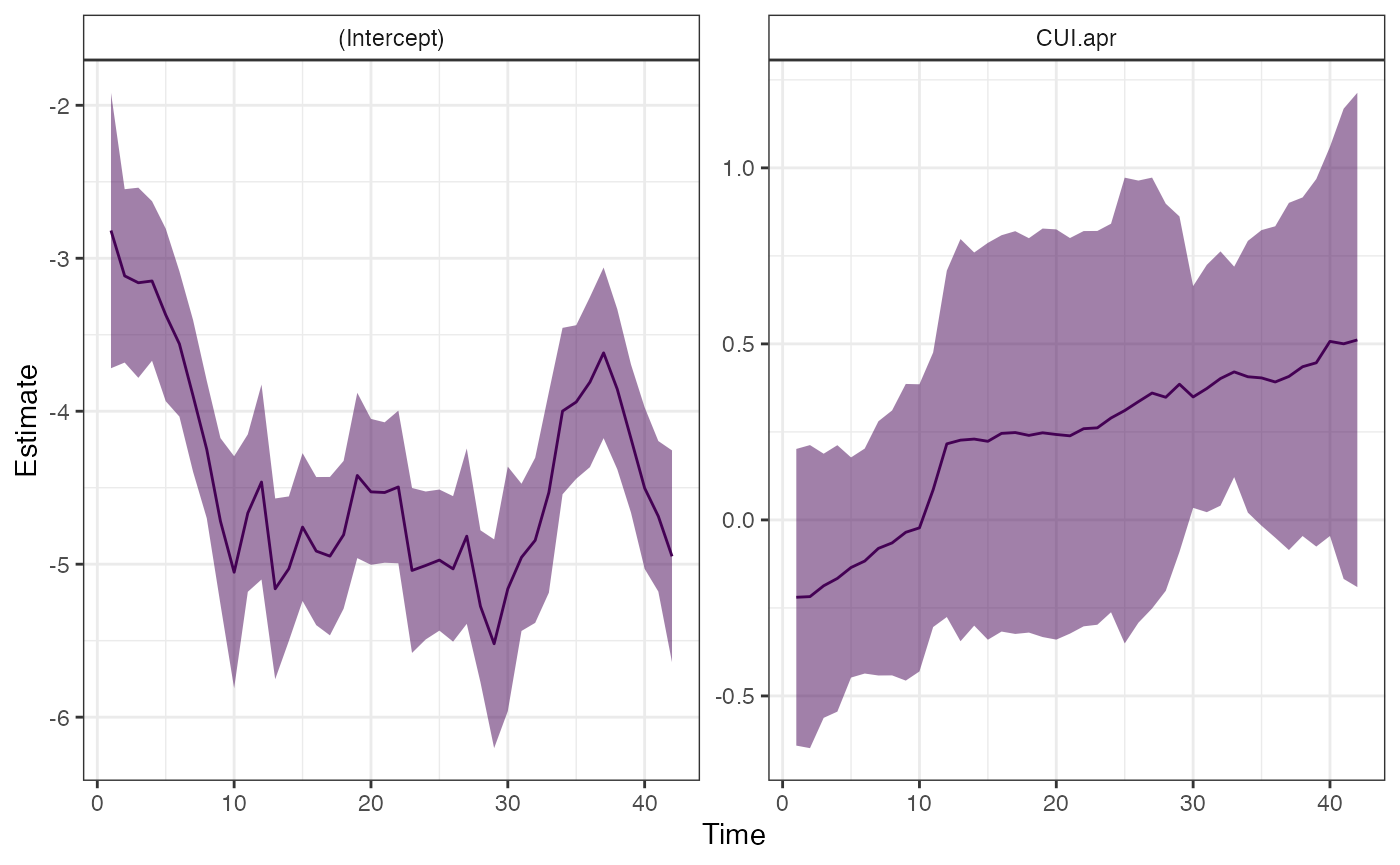
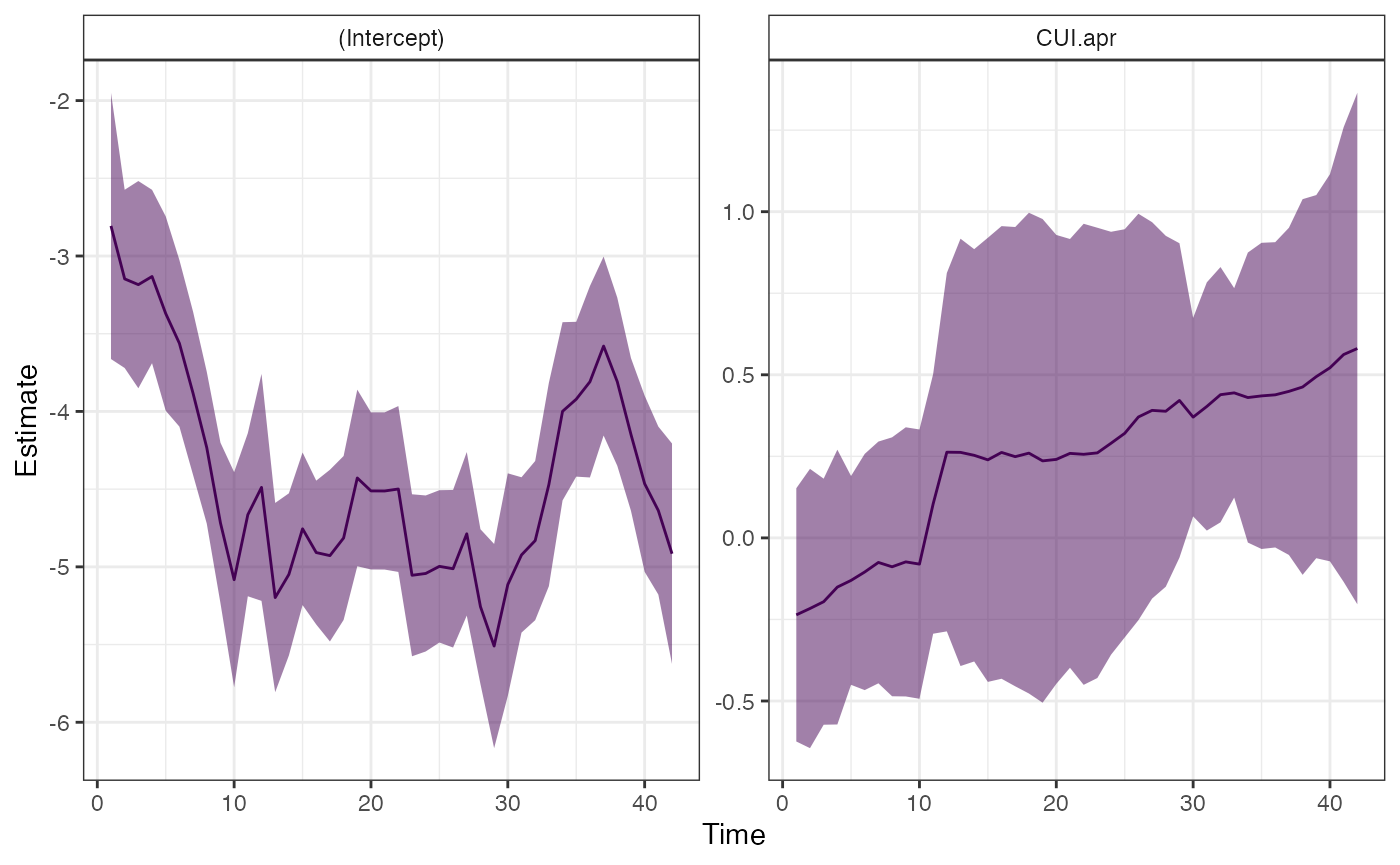
bug

diff --git a/docs/articles/a01_overview.html b/docs/articles/a01_overview.html
@@ -138,8 +138,8 @@
 <pre><code><span class="co">## </span>
 <span class="co">## SAMPLING FOR MODEL 'dlm' NOW (CHAIN 1).</span>
 <span class="co">## Chain 1: </span>
-<span class="co">## Chain 1: Gradient evaluation took 0.000278 seconds</span>
-<span class="co">## Chain 1: 1000 transitions using 10 leapfrog steps per transition would take 2.78 seconds.</span>
+<span class="co">## Chain 1: Gradient evaluation took 0.000224 seconds</span>
+<span class="co">## Chain 1: 1000 transitions using 10 leapfrog steps per transition would take 2.24 seconds.</span>
 <span class="co">## Chain 1: Adjust your expectations accordingly!</span>
 <span class="co">## Chain 1: </span>
 <span class="co">## Chain 1: </span>
@@ -156,19 +156,13 @@
 <span class="co">## Chain 1: Iteration: 900 / 1000 [ 90%]  (Sampling)</span>
 <span class="co">## Chain 1: Iteration: 1000 / 1000 [100%]  (Sampling)</span>
 <span class="co">## Chain 1: </span>
-<span class="co">## Chain 1:  Elapsed Time: 11.0205 seconds (Warm-up)</span>
-<span class="co">## Chain 1:                7.67908 seconds (Sampling)</span>
-<span class="co">## Chain 1:                18.6996 seconds (Total)</span>
+<span class="co">## Chain 1:  Elapsed Time: 11.8242 seconds (Warm-up)</span>
+<span class="co">## Chain 1:                10.6537 seconds (Sampling)</span>
+<span class="co">## Chain 1:                22.4778 seconds (Total)</span>
 <span class="co">## Chain 1:</span></code></pre>
-<pre><code><span class="co">## Warning: There were 29 divergent transitions after warmup. See</span>
-<span class="co">## https://mc-stan.org/misc/warnings.html#divergent-transitions-after-warmup</span>
-<span class="co">## to find out why this is a problem and how to eliminate them.</span></code></pre>
 <pre><code><span class="co">## Warning: There were 1 chains where the estimated Bayesian Fraction of Missing Information was low. See</span>
 <span class="co">## https://mc-stan.org/misc/warnings.html#bfmi-low</span></code></pre>
 <pre><code><span class="co">## Warning: Examine the pairs() plot to diagnose sampling problems</span></code></pre>
-<pre><code><span class="co">## Warning: The largest R-hat is NA, indicating chains have not mixed.</span>
-<span class="co">## Running the chains for more iterations may help. See</span>
-<span class="co">## https://mc-stan.org/misc/warnings.html#r-hat</span></code></pre>
 <pre><code><span class="co">## Warning: Bulk Effective Samples Size (ESS) is too low, indicating posterior means and medians may be unreliable.</span>
 <span class="co">## Running the chains for more iterations may help. See</span>
 <span class="co">## https://mc-stan.org/misc/warnings.html#bulk-ess</span></code></pre>
@@ -179,7 +173,7 @@
 <ul>
 <li>Did you get any warnings about divergent transitions after warmup? If so, try increasing the iterations / burn-in period, and number of chains. It’s also worth increasing the value of <code>adapt_delta</code>. (this will slow the sampling down a little). If you’re still getting these warnings, the model may be mis-specified or data not informative.</li>
 </ul>
-<div class="sourceCode" id="cb17"><pre class="downlit sourceCode r">
+<div class="sourceCode" id="cb15"><pre class="downlit sourceCode r">
 <code class="sourceCode R"><span class="va">fit</span> <span class="op">&lt;-</span> <span class="fu"><a href="../reference/fit_dlm.html">fit_dlm</a></span><span class="op">(</span>time_varying <span class="op">=</span> <span class="va">logit.s</span> <span class="op">~</span> <span class="va">CUI.apr</span>,
         data <span class="op">=</span> <span class="va">SalmonSurvCUI</span>,
         chains<span class="op">=</span><span class="fl">1</span>,
@@ -188,32 +182,32 @@
 <ul>
 <li>Did you get a warning about the maximum tree depth? If so, you can increase the maximum tree (<code>max_treedepth</code>) depth with the following</li>
 </ul>
-<div class="sourceCode" id="cb18"><pre class="downlit sourceCode r">
+<div class="sourceCode" id="cb16"><pre class="downlit sourceCode r">
 <code class="sourceCode R"><span class="va">fit</span> <span class="op">&lt;-</span> <span class="fu"><a href="../reference/fit_dlm.html">fit_dlm</a></span><span class="op">(</span>time_varying <span class="op">=</span> <span class="va">logit.s</span> <span class="op">~</span> <span class="va">CUI.apr</span>,
         data <span class="op">=</span> <span class="va">SalmonSurvCUI</span>,
         chains<span class="op">=</span><span class="fl">1</span>,
         iter<span class="op">=</span><span class="fl">1000</span>,
         control <span class="op">=</span> <span class="fu"><a href="https://rdrr.io/r/base/list.html" class="external-link">list</a></span><span class="op">(</span>max_treedepth<span class="op">=</span><span class="fl">15</span><span class="op">)</span><span class="op">)</span></code></pre></div>
 <p>We can extract tidied versions of any of the parameters with</p>
-<div class="sourceCode" id="cb19"><pre class="downlit sourceCode r">
+<div class="sourceCode" id="cb17"><pre class="downlit sourceCode r">
 <code class="sourceCode R"><span class="fu">broom.mixed</span><span class="fu">::</span><span class="fu"><a href="https://generics.r-lib.org/reference/tidy.html" class="external-link">tidy</a></span><span class="op">(</span><span class="va">fit</span><span class="op">$</span><span class="va">fit</span><span class="op">)</span></code></pre></div>
 <pre><code><span class="co">## <span style="color: #949494;"># A tibble: 182 × 3</span></span>
 <span class="co">##    term    estimate std.error</span>
 <span class="co">##    <span style="color: #949494; font-style: italic;">&lt;chr&gt;</span>      <span style="color: #949494; font-style: italic;">&lt;dbl&gt;</span>     <span style="color: #949494; font-style: italic;">&lt;dbl&gt;</span></span>
-<span class="co">## <span style="color: #BCBCBC;"> 1</span> eta[1]     -<span style="color: #BB0000;">3.36</span>     0.332</span>
-<span class="co">## <span style="color: #BCBCBC;"> 2</span> eta[2]     -<span style="color: #BB0000;">3.12</span>     0.286</span>
-<span class="co">## <span style="color: #BCBCBC;"> 3</span> eta[3]     -<span style="color: #BB0000;">3.53</span>     0.275</span>
-<span class="co">## <span style="color: #BCBCBC;"> 4</span> eta[4]     -<span style="color: #BB0000;">3.19</span>     0.249</span>
-<span class="co">## <span style="color: #BCBCBC;"> 5</span> eta[5]     -<span style="color: #BB0000;">3.62</span>     0.287</span>
-<span class="co">## <span style="color: #BCBCBC;"> 6</span> eta[6]     -<span style="color: #BB0000;">3.41</span>     0.270</span>
-<span class="co">## <span style="color: #BCBCBC;"> 7</span> eta[7]     -<span style="color: #BB0000;">3.97</span>     0.259</span>
-<span class="co">## <span style="color: #BCBCBC;"> 8</span> eta[8]     -<span style="color: #BB0000;">4.25</span>     0.232</span>
-<span class="co">## <span style="color: #BCBCBC;"> 9</span> eta[9]     -<span style="color: #BB0000;">4.70</span>     0.279</span>
-<span class="co">## <span style="color: #BCBCBC;">10</span> eta[10]    -<span style="color: #BB0000;">5.14</span>     0.389</span>
+<span class="co">## <span style="color: #BCBCBC;"> 1</span> eta[1]     -<span style="color: #BB0000;">3.38</span>     0.305</span>
+<span class="co">## <span style="color: #BCBCBC;"> 2</span> eta[2]     -<span style="color: #BB0000;">3.15</span>     0.290</span>
+<span class="co">## <span style="color: #BCBCBC;"> 3</span> eta[3]     -<span style="color: #BB0000;">3.53</span>     0.291</span>
+<span class="co">## <span style="color: #BCBCBC;"> 4</span> eta[4]     -<span style="color: #BB0000;">3.17</span>     0.268</span>
+<span class="co">## <span style="color: #BCBCBC;"> 5</span> eta[5]     -<span style="color: #BB0000;">3.62</span>     0.293</span>
+<span class="co">## <span style="color: #BCBCBC;"> 6</span> eta[6]     -<span style="color: #BB0000;">3.42</span>     0.292</span>
+<span class="co">## <span style="color: #BCBCBC;"> 7</span> eta[7]     -<span style="color: #BB0000;">3.96</span>     0.259</span>
+<span class="co">## <span style="color: #BCBCBC;"> 8</span> eta[8]     -<span style="color: #BB0000;">4.21</span>     0.254</span>
+<span class="co">## <span style="color: #BCBCBC;"> 9</span> eta[9]     -<span style="color: #BB0000;">4.69</span>     0.266</span>
+<span class="co">## <span style="color: #BCBCBC;">10</span> eta[10]    -<span style="color: #BB0000;">5.25</span>     0.378</span>
 <span class="co">## <span style="color: #949494;"># … with 172 more rows</span></span>
 <span class="co">## <span style="color: #949494;"># ℹ Use `print(n = ...)` to see more rows</span></span></code></pre>
 <p>We also have a helper function for extracting and visualizing trends for time varying parameters.</p>
-<div class="sourceCode" id="cb21"><pre class="downlit sourceCode r">
+<div class="sourceCode" id="cb19"><pre class="downlit sourceCode r">
 <code class="sourceCode R"><span class="fu"><a href="../reference/dlm_trends.html">dlm_trends</a></span><span class="op">(</span><span class="va">fit</span><span class="op">)</span></code></pre></div>
 <pre><code><span class="co">## $plot</span></code></pre>
 <p><img src="a01_overview_files/figure-html/unnamed-chunk-8-1.png" width="700"></p>
@@ -222,16 +216,16 @@
 <span class="co">## <span style="color: #949494;"># A tibble: 84 × 5</span></span>
 <span class="co">##    term            estimate std.error par          time</span>
 <span class="co">##    <span style="color: #949494; font-style: italic;">&lt;chr&gt;</span>              <span style="color: #949494; font-style: italic;">&lt;dbl&gt;</span>     <span style="color: #949494; font-style: italic;">&lt;dbl&gt;</span> <span style="color: #949494; font-style: italic;">&lt;chr&gt;</span>       <span style="color: #949494; font-style: italic;">&lt;int&gt;</span></span>
-<span class="co">## <span style="color: #BCBCBC;"> 1</span> b_varying[1,1]     -<span style="color: #BB0000;">2.82</span>     0.459 (Intercept)     1</span>
-<span class="co">## <span style="color: #BCBCBC;"> 2</span> b_varying[2,1]     -<span style="color: #BB0000;">3.12</span>     0.289 (Intercept)     2</span>
-<span class="co">## <span style="color: #BCBCBC;"> 3</span> b_varying[3,1]     -<span style="color: #BB0000;">3.16</span>     0.317 (Intercept)     3</span>
-<span class="co">## <span style="color: #BCBCBC;"> 4</span> b_varying[4,1]     -<span style="color: #BB0000;">3.15</span>     0.266 (Intercept)     4</span>
-<span class="co">## <span style="color: #BCBCBC;"> 5</span> b_varying[5,1]     -<span style="color: #BB0000;">3.37</span>     0.288 (Intercept)     5</span>
-<span class="co">## <span style="color: #BCBCBC;"> 6</span> b_varying[6,1]     -<span style="color: #BB0000;">3.56</span>     0.242 (Intercept)     6</span>
-<span class="co">## <span style="color: #BCBCBC;"> 7</span> b_varying[7,1]     -<span style="color: #BB0000;">3.90</span>     0.253 (Intercept)     7</span>
-<span class="co">## <span style="color: #BCBCBC;"> 8</span> b_varying[8,1]     -<span style="color: #BB0000;">4.25</span>     0.229 (Intercept)     8</span>
-<span class="co">## <span style="color: #BCBCBC;"> 9</span> b_varying[9,1]     -<span style="color: #BB0000;">4.72</span>     0.277 (Intercept)     9</span>
-<span class="co">## <span style="color: #BCBCBC;">10</span> b_varying[10,1]    -<span style="color: #BB0000;">5.05</span>     0.387 (Intercept)    10</span>
+<span class="co">## <span style="color: #BCBCBC;"> 1</span> b_varying[1,1]     -<span style="color: #BB0000;">2.81</span>     0.437 (Intercept)     1</span>
+<span class="co">## <span style="color: #BCBCBC;"> 2</span> b_varying[2,1]     -<span style="color: #BB0000;">3.15</span>     0.293 (Intercept)     2</span>
+<span class="co">## <span style="color: #BCBCBC;"> 3</span> b_varying[3,1]     -<span style="color: #BB0000;">3.18</span>     0.340 (Intercept)     3</span>
+<span class="co">## <span style="color: #BCBCBC;"> 4</span> b_varying[4,1]     -<span style="color: #BB0000;">3.13</span>     0.285 (Intercept)     4</span>
+<span class="co">## <span style="color: #BCBCBC;"> 5</span> b_varying[5,1]     -<span style="color: #BB0000;">3.37</span>     0.319 (Intercept)     5</span>
+<span class="co">## <span style="color: #BCBCBC;"> 6</span> b_varying[6,1]     -<span style="color: #BB0000;">3.56</span>     0.273 (Intercept)     6</span>
+<span class="co">## <span style="color: #BCBCBC;"> 7</span> b_varying[7,1]     -<span style="color: #BB0000;">3.88</span>     0.268 (Intercept)     7</span>
+<span class="co">## <span style="color: #BCBCBC;"> 8</span> b_varying[8,1]     -<span style="color: #BB0000;">4.23</span>     0.249 (Intercept)     8</span>
+<span class="co">## <span style="color: #BCBCBC;"> 9</span> b_varying[9,1]     -<span style="color: #BB0000;">4.72</span>     0.263 (Intercept)     9</span>
+<span class="co">## <span style="color: #BCBCBC;">10</span> b_varying[10,1]    -<span style="color: #BB0000;">5.08</span>     0.353 (Intercept)    10</span>
 <span class="co">## <span style="color: #949494;"># … with 74 more rows</span></span>
 <span class="co">## <span style="color: #949494;"># ℹ Use `print(n = ...)` to see more rows</span></span></code></pre>
 <p>This function returns a plot and the values used to make the plot (<code>b_varying</code>)</p>
@@ -240,7 +234,7 @@
 <h3 id="model-2-time-varying-intercept-and-constant-slope">Model 2: time varying intercept and constant slope<a class="anchor" aria-label="anchor" href="#model-2-time-varying-intercept-and-constant-slope"></a>
 </h3>
 <p>As a second example, we could fit a model with a constant effect of CUI, but a time varying slope. The <code>fit_dlm</code> function has two formula parameters, <code>formula</code> for static effects, and <code>time_varying</code> for time varying ones. This model is specified as</p>
-<div class="sourceCode" id="cb24"><pre class="downlit sourceCode r">
+<div class="sourceCode" id="cb22"><pre class="downlit sourceCode r">
 <code class="sourceCode R"><span class="va">fit</span> <span class="op">&lt;-</span> <span class="fu"><a href="../reference/fit_dlm.html">fit_dlm</a></span><span class="op">(</span>time_varying <span class="op">=</span> <span class="va">logit.s</span> <span class="op">~</span> <span class="fl">1</span>,
                formula <span class="op">=</span> <span class="va">logit.s</span> <span class="op">~</span> <span class="va">CUI.apr</span>,
         data <span class="op">=</span> <span class="va">SalmonSurvCUI</span>,
@@ -251,7 +245,7 @@
 <h3 id="model-3-constant-intercept-and-time-varying-slope">Model 3: constant intercept and time varying slope<a class="anchor" aria-label="anchor" href="#model-3-constant-intercept-and-time-varying-slope"></a>
 </h3>
 <p>We could do the same with a model that had a time varying effect of CUI, but a time constant slope.</p>
-<div class="sourceCode" id="cb25"><pre class="downlit sourceCode r">
+<div class="sourceCode" id="cb23"><pre class="downlit sourceCode r">
 <code class="sourceCode R"><span class="va">fit</span> <span class="op">&lt;-</span> <span class="fu"><a href="../reference/fit_dlm.html">fit_dlm</a></span><span class="op">(</span>time_varying <span class="op">=</span> <span class="va">logit.s</span> <span class="op">~</span> <span class="va">CUI.apr</span>,
                formula <span class="op">=</span> <span class="va">logit.s</span> <span class="op">~</span> <span class="fl">1</span>,
         data <span class="op">=</span> <span class="va">SalmonSurvCUI</span>,
@@ -262,7 +256,7 @@
 <h3 id="comparing-models">Comparing models<a class="anchor" aria-label="anchor" href="#comparing-models"></a>
 </h3>
 <p>All three of the above formulations of the DLM can be compared with the <code>loo</code> package, and statistics such as LOOIC can be easily calculated. For example,</p>
-<div class="sourceCode" id="cb26"><pre class="downlit sourceCode r">
+<div class="sourceCode" id="cb24"><pre class="downlit sourceCode r">
 <code class="sourceCode R"><span class="kw"><a href="https://rdrr.io/r/base/library.html" class="external-link">library</a></span><span class="op">(</span><span class="va"><a href="https://mc-stan.org/loo/" class="external-link">loo</a></span><span class="op">)</span>
 <span class="fu">loo</span><span class="fu">::</span><span class="fu"><a href="https://mc-stan.org/loo/reference/loo.html" class="external-link">loo</a></span><span class="op">(</span><span class="va">fit</span><span class="op">$</span><span class="va">fit</span><span class="op">)</span></code></pre></div>
 </div>

diff --git a/docs/reference/dlm_trends.html b/docs/reference/dlm_trends.html
@@ -83,7 +83,7 @@ to fit the model. These include <code>plot</code> and <code>b_varying</code></p>
 <span class="r-in">                  <span class="st">"cov1"</span> <span class="op">=</span> <span class="fu"><a href="https://rdrr.io/r/stats/Normal.html" class="external-link">rnorm</a></span><span class="op">(</span><span class="va">N</span><span class="op">)</span>,</span>
 <span class="r-in">                  <span class="st">"cov2"</span> <span class="op">=</span> <span class="fu"><a href="https://rdrr.io/r/stats/Normal.html" class="external-link">rnorm</a></span><span class="op">(</span><span class="va">N</span><span class="op">)</span>,</span>
 <span class="r-in">                  <span class="st">"year"</span> <span class="op">=</span> <span class="fl">1</span><span class="op">:</span><span class="va">N</span>,</span>
-<span class="r-in">                  <span class="st">"season"</span> <span class="op">=</span> <span class="fu"><a href="https://rdrr.io/r/base/sample.html" class="external-link">sample</a></span><span class="op">(</span><span class="fu"><a href="https://rdrr.io/r/base/c.html" class="external-link">c</a></span><span class="op">(</span><span class="st">"A"</span>,<span class="st">"B"</span><span class="op">)</span>, size<span class="op">=</span><span class="va">N</span>, replace<span class="op">=</span><span class="cn">T</span><span class="op">)</span><span class="op">)</span></span>
+<span class="r-in">                  <span class="st">"season"</span> <span class="op">=</span> <span class="fu"><a href="https://rdrr.io/r/base/sample.html" class="external-link">sample</a></span><span class="op">(</span><span class="fu"><a href="https://rdrr.io/r/base/c.html" class="external-link">c</a></span><span class="op">(</span><span class="st">"A"</span>,<span class="st">"B"</span><span class="op">)</span>, size<span class="op">=</span><span class="va">N</span>, replace<span class="op">=</span><span class="cn">TRUE</span><span class="op">)</span><span class="op">)</span></span>
 <span class="r-in"><span class="va">b_1</span> <span class="op">=</span> <span class="fu"><a href="https://rdrr.io/r/base/cumsum.html" class="external-link">cumsum</a></span><span class="op">(</span><span class="fu"><a href="https://rdrr.io/r/stats/Normal.html" class="external-link">rnorm</a></span><span class="op">(</span><span class="va">N</span><span class="op">)</span><span class="op">)</span></span>
 <span class="r-in"><span class="va">b_2</span> <span class="op">=</span> <span class="fu"><a href="https://rdrr.io/r/base/cumsum.html" class="external-link">cumsum</a></span><span class="op">(</span><span class="fu"><a href="https://rdrr.io/r/stats/Normal.html" class="external-link">rnorm</a></span><span class="op">(</span><span class="va">N</span><span class="op">)</span><span class="op">)</span></span>
 <span class="r-in"><span class="va">data</span><span class="op">$</span><span class="va">y</span> <span class="op">=</span> <span class="va">data</span><span class="op">$</span><span class="va">cov1</span><span class="op">*</span><span class="va">b_1</span> <span class="op">+</span> <span class="va">data</span><span class="op">$</span><span class="va">cov2</span><span class="op">*</span><span class="va">b_2</span></span>
